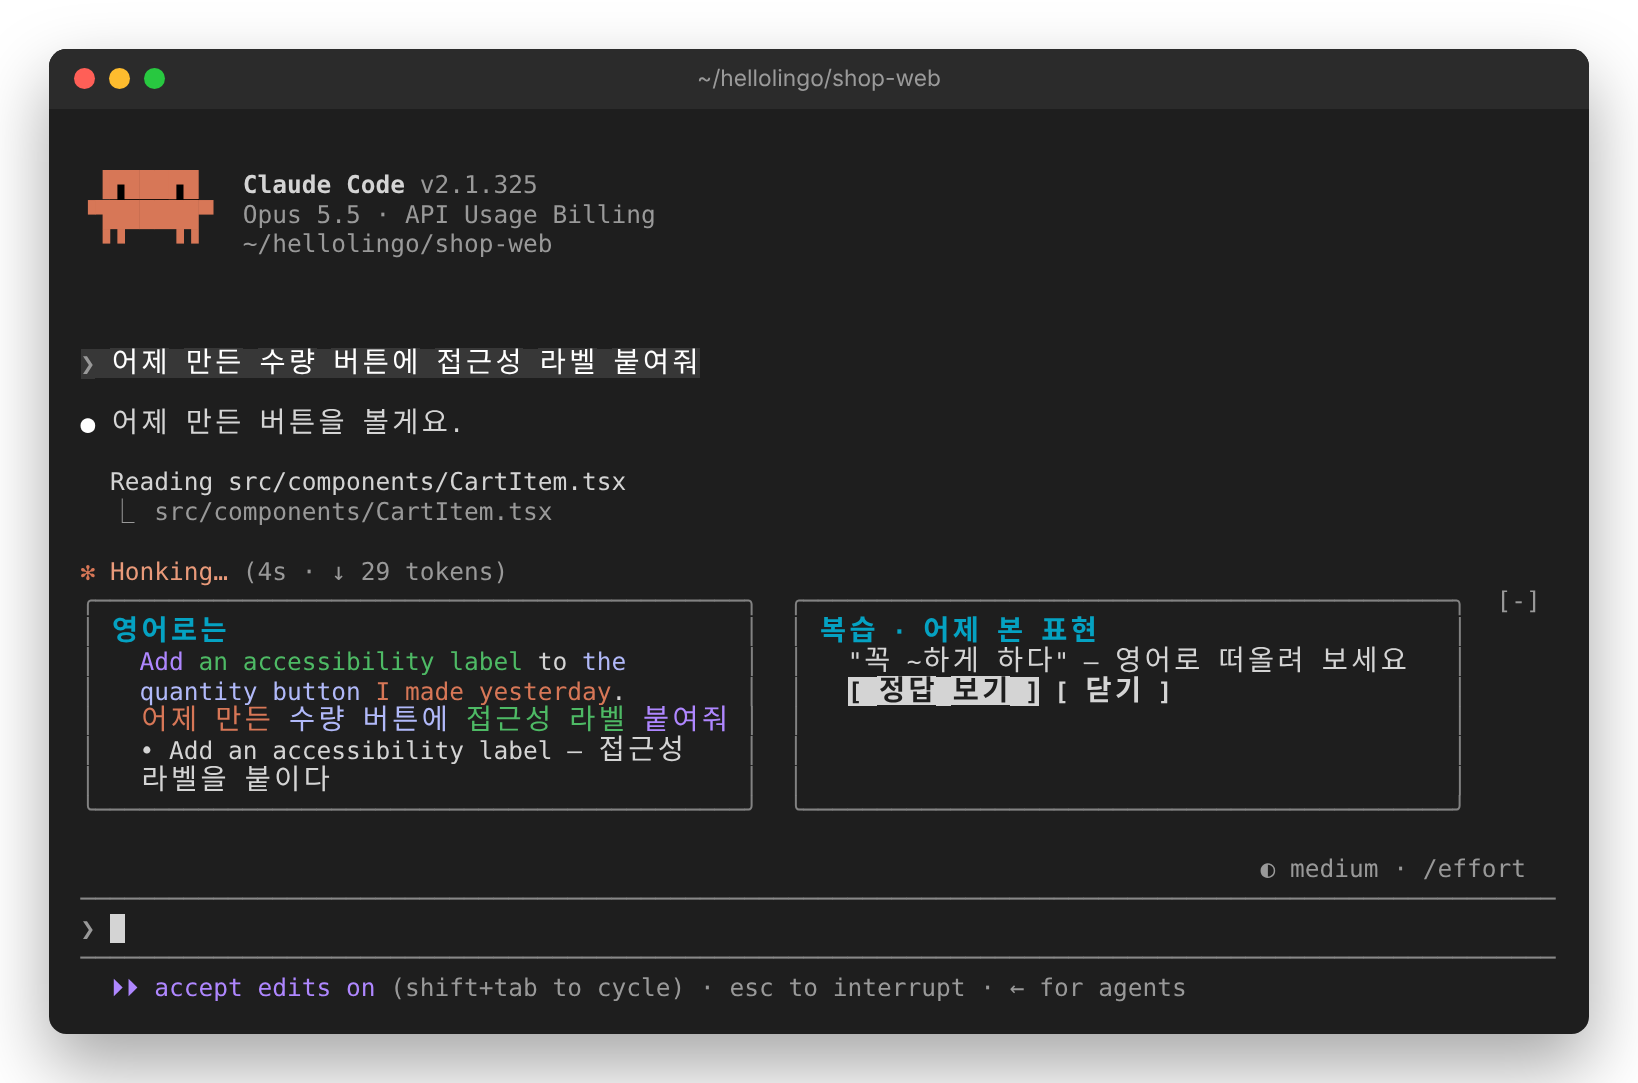
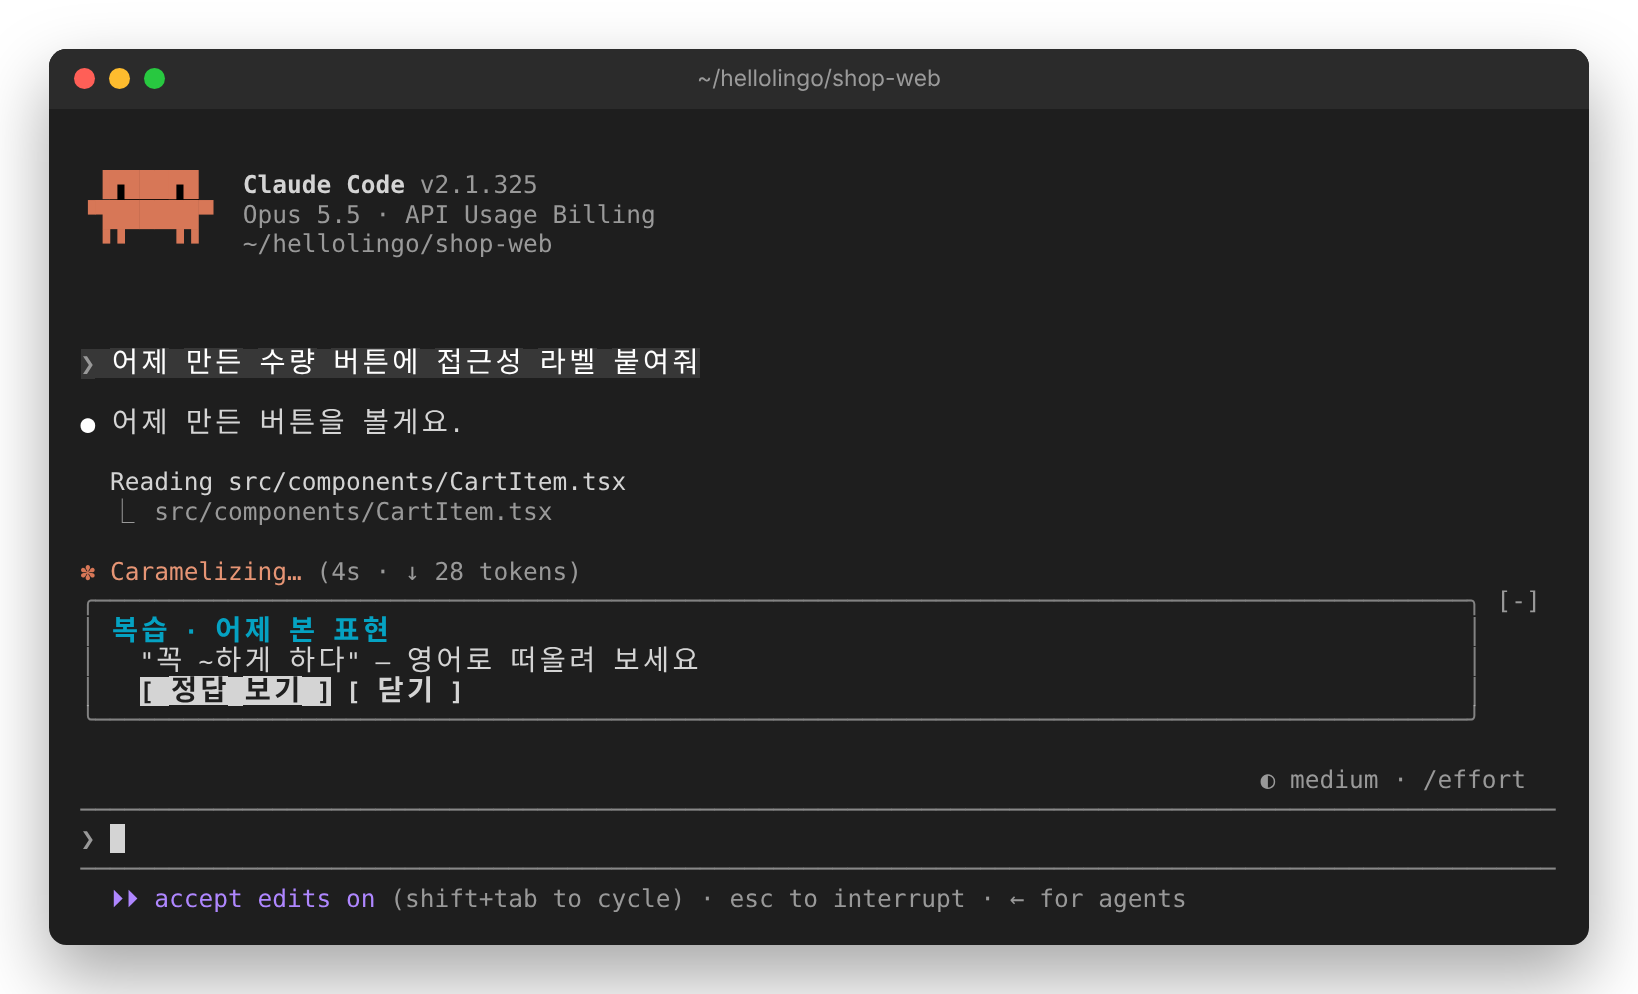
feat(study): 공부하는 동안 카드를 숨기고 공부 칸만 보이기
카드와 공부 칸이 나란히 있으면 한 화면에 읽을 것이 많았습니다. 카드의 영어 문장이
옆에 보여서, 혼자 맞추는 둘째 문제의 틀을 미리 알려 주기도 했습니다.

- 공부 칸이 열려 있으면 그 칸만 보입니다. 닫으면 가장 최근 카드가 돌아옵니다.
- 좌우로 나누거나 좁은 창에서 쌓는 배치는 없앱니다.
- 가이드와 동작 방식 문서를 고치고, 영향받는 세 장면을 다시 찍었습니다.

diff --git a/hooks/register.tsx b/hooks/register.tsx
@@ -3,7 +3,8 @@
 //  - 한국어 프롬프트: 영어 문장과 내 한국어 문장 (같은 뜻의 조각에 같은 색) + 핵심 표현 1개
 //  - 영어 프롬프트: 틀린 부분 → 고친 부분 (없으면 더 자연스러운 표현 1개)
 // 새 프롬프트를 보내도 카드는 지우지 않는다: 새 카드가 준비될 때까지 이전 카드를 그대로 둔다.
-// 카드의 핵심 표현은 표현 노트에 모은다. 공부는 학습자가 카드 위쪽의 버튼을 눌렀을 때만 오른쪽 공부 칸에서 한다:
+// 카드의 핵심 표현은 표현 노트에 모은다. 공부는 학습자가 카드 위쪽의 버튼을 눌렀을 때만 한다.
+// 그동안은 카드 자리에 공부 칸만 보이고, 닫으면 카드가 돌아온다:
 //  - 학습하기: 이 문장에서 한국어 사용자가 막히는 한 곳을 같은 틀의 새 문장 2개로 조각 맞추기
 //  - 복습: 복습할 때가 된 표현을 차례로 떠올리기
 //  - 학습 노트: 모은 표현을 영어를 가린 채 보고, 골라서 떠올리기
@@ -54,8 +55,6 @@ const MAX_TOKENS = 800 // 짝짓기까지 담은 JSON이 잘리지 않게
 const LESSON_MAX_TOKENS = 1500 // 배울 점과 문제 5개
 const LESSON_ATTEMPTS = 2 // 쓸 만한 문제가 없는 답이 오면 한 번 더 부른다
 const TIMEOUT_MS = 20_000
-const MIN_SPLIT_COLUMNS = 70 // 영역이 이보다 좁으면 반으로 나누지 않고 위아래로 쌓는다
-const GAP = 2
 const LIST_ROWS = 8 // 공부 칸의 노트 목록에 보이는 표현 수. 숫자 키 1~8로 고른다
 // 카드 테두리. 이모지는 터미널마다 폭을 다르게 세서 테두리를 어긋나게 하니, 카드 안에는 쓰지 않는다.
 const CARD_BORDER = 'round'
@@ -143,25 +142,31 @@ export const register: Register = on => {
     const open = await read($, study)
     const notes = await read($, notesView)
     const now = await $.clock.now()
-    // 공부 칸이 닫혀 있을 때만 카드 위쪽에 버튼을 둔다. 열려 있으면 공부 칸의 버튼만 보인다.
-    const tools =
-      open === null
-        ? headerButtons(card, notes, now, {
-            lesson: () => void openLesson($),
-            review: () => void openReview($),
-            list: () => void openList($),
-          })
-        : []
-    const promptPanel =
-      card !== null
-        ? { key: 'prompt', rows: [...(pendingSeq === null ? [] : [NEWER_PENDING_ROW]), ...cardRows(card, tools)] }
-        : pendingSeq !== null
-          ? { key: 'prompt', rows: pendingRows() }
-          : null
-    const studyPanel = open === null ? null : { key: 'study', rows: studyRows(open, notes, now, actions($, open.id)) }
-    const cards = [promptPanel, studyPanel].filter(notNull)
+    // 한 번에 한 칸만 보인다. 공부 칸이 열려 있으면 카드는 숨긴다: 볼 것이 하나라야 쉽고,
+    // 카드의 영어 문장이 옆에 보이면 혼자 맞추는 문제의 답을 미리 알려 준다. 닫으면 카드가 돌아온다.
+    const panel =
+      open !== null
+        ? { key: 'study', rows: studyRows(open, notes, now, actions($, open.id)) }
+        : card !== null
+          ? {
+              key: 'prompt',
+              rows: [
+                ...(pendingSeq === null ? [] : [NEWER_PENDING_ROW]),
+                ...cardRows(
+                  card,
+                  headerButtons(card, notes, now, {
+                    lesson: () => void openLesson($),
+                    review: () => void openReview($),
+                    list: () => void openList($),
+                  }),
+                ),
+              ],
+            }
+          : pendingSeq !== null
+            ? { key: 'prompt', rows: pendingRows() }
+            : null
 
-    if (cards.length === 0) {
+    if (panel === null) {
       return next(e)
     }
 
@@ -169,28 +174,12 @@ export const register: Register = on => {
     const { Box } = el
     // 같은 자리를 쓰는 다른 mod나 Claude Code 자체의 내용도 함께 보이게 아래에 붙인다.
     const below = await next(e)
-    // 카드 둘은 자리가 되면 좌우 반씩, 좁으면 위아래로.
-    const isSplit = cards.length === 2 && e.props.bodyColumns >= MIN_SPLIT_COLUMNS
-    const cardWidth = isSplit ? Math.floor((e.props.bodyColumns - GAP) / 2) : undefined
 
-    // 칸마다 둥근 테두리를 둘러서, 터미널의 다른 내용과 그리고 서로 구분되게 한다.
-    // 너비는 테두리와 안쪽 여백까지 포함한 값이다.
+    // 둥근 테두리를 둘러서 터미널의 다른 내용과 구분되게 한다.
     return (
       <Box flexDirection="column">
-        <Box flexDirection={isSplit ? 'row' : 'column'} columnGap={GAP} marginBottom={1}>
-          {cards.map(panel => (
-            <Box
-              key={panel.key}
-              flexDirection="column"
-              width={cardWidth}
-              flexShrink={0}
-              borderStyle={CARD_BORDER}
-              borderDimColor
-              paddingX={1}
-            >
-              {drawRows(el, panel.rows)}
-            </Box>
-          ))}
+        <Box key={panel.key} flexDirection="column" borderStyle={CARD_BORDER} borderDimColor paddingX={1} marginBottom={1}>
+          {drawRows(el, panel.rows)}
         </Box>
         {below}
       </Box>
@@ -848,7 +837,7 @@ function pairColor(pair: number): string {
   return PAIR_COLORS[pair % PAIR_COLORS.length] ?? ACCENT
 }
 
-/** 오른쪽 공부 칸. 학습하기, 복습, 노트 목록 */
+/** 공부 칸. 학습하기, 복습, 노트 목록. 열려 있는 동안 카드 자리를 대신한다 */
 function studyRows(s: Study, notes: Notes, now: number, on: StudyActions): Row[] {
   const close: RowButton = { key: 'study-close', label: '닫기', hotkey: 'q', onPress: on.close }
 

diff --git a/tests/hellolingo.test.tsx b/tests/hellolingo.test.tsx
@@ -657,7 +657,7 @@ describe('expression notebook and study panel', () => {
     await ui.unmount()
   })
 
-  test('the study panel sits beside the card, stacks when narrow, and stays across prompts and finished turns', async ($, on) => {
+  test('the study panel takes the place of the card until closed, and stays across prompts and finished turns', async ($, on) => {
     const clock = mock.clock(on)
     // 다른 세션에서 모아 둔 표현도 복습에 나온다. 모양이 틀린 줄은 버린다.
     engine(on, () => KO_REPLY, { notes: { 'make sure': note('make sure', '꼭 ~하다'), broken: { en: 1 } } })
@@ -665,37 +665,37 @@ describe('expression notebook and study panel', () => {
     await $.session.start({ cwd: '/', surface: 'terminal', isInteractive: true })
     await $.prompt.submit(typed(KO_PROMPT))
     await clock.settle()
-    const working = await $.ui.mount(WIDE)
+    const ui = await $.ui.mount(WIDE)
 
-    await working.press({ key: 'study-review' })
+    await ui.press({ key: 'study-review' })
     await clock.settle()
-    // (100 - 카드 사이 2칸) / 2
-    expect((await working.find({ type: 'Box', key: 'prompt' }))?.props.width).toBe(49)
-    expect((await working.find({ type: 'Box', key: 'study' }))?.props).toMatchObject({
-      width: 49,
+    // 한 번에 한 칸만: 공부하는 동안 카드와 그 영어 문장은 보이지 않는다.
+    expect(await ui.find({ type: 'Box', key: 'prompt' })).toBeUndefined()
+    expect(await ui.find({ type: 'Text', text: KO_ENGLISH_LINE })).toBeUndefined()
+    expect((await ui.find({ type: 'Box', key: 'study' }))?.props).toMatchObject({
       borderStyle: 'round',
       borderDimColor: true,
       paddingX: 1,
     })
-    expect(await working.find({ type: 'Text', text: /"꼭 ~하다"/ })).toBeDefined()
-    // 공부 칸이 열려 있으면 카드 위쪽 버튼은 숨는다.
-    expect(await working.find({ type: 'Button', key: 'study-lesson' })).toBeUndefined()
-    await working.unmount()
+    expect((await ui.find({ type: 'Box', key: 'study' }))?.props.width).toBeUndefined()
+    expect(await ui.find({ type: 'Text', text: /"꼭 ~하다"/ })).toBeDefined()
+    expect(await ui.find({ type: 'Text', text: /^engine$/ })).toBeDefined()
 
-    const narrow = await $.ui.mount({ ...WIDE, props: { ...WIDE.props, bodyColumns: 60 } })
-
-    expect((await narrow.find({ type: 'Box', key: 'prompt' }))?.props.width).toBeUndefined()
-    expect((await narrow.find({ type: 'Box', key: 'study' }))?.props.width).toBeUndefined()
-    await narrow.unmount()
-
+    // 새 프롬프트를 보내도, 턴이 끝나도 공부 칸은 그대로다.
     await $.turn.complete(answered(ANSWER))
-    await $.prompt.submit(typed('응 해줘'))
+    await $.prompt.submit(typed('회원가입 버튼 색 바꿔줘'))
     await $.prompt.submit({ ...typed('/lingo-notes'), command: { name: 'lingo-notes', args: '' } })
     await clock.settle()
-    const later = await $.ui.mount(WIDE)
+    expect(await ui.find({ type: 'Box', key: 'study' })).toBeDefined()
+    expect(await ui.find({ type: 'Box', key: 'prompt' })).toBeUndefined()
 
-    expect(await later.find({ type: 'Box', key: 'study' })).toBeDefined()
-    await later.unmount()
+    // 닫으면 카드가 단추와 함께 돌아온다.
+    await ui.press({ key: 'study-close' })
+    await clock.settle()
+    expect(await ui.find({ type: 'Box', key: 'study' })).toBeUndefined()
+    expect(await ui.find({ type: 'Text', text: KO_ENGLISH_LINE })).toBeDefined()
+    expect(await ui.find({ type: 'Button', key: 'study-lesson' })).toBeDefined()
+    await ui.unmount()
   })
 
   test('학습하기 practices one pattern in two new sentences: the first helped by colors, the second alone', async ($, on) => {

diff --git a/docs/guide/03-study.md b/docs/guide/03-study.md
@@ -1,6 +1,6 @@
 # 3. 학습하기. 방금 쓴 문장으로 연습
 
-유진은 방금 수량 버튼을 시켰습니다. Claude가 일을 마칠 때까지 잠깐 시간이 있습니다. 카드 위쪽 오른쪽의 `학습하기`를 눌러 봅니다.
+유진은 방금 수량 버튼을 시켰습니다. Claude가 일을 마칠 때까지 잠깐 시간이 있습니다. 카드 위쪽 오른쪽의 `학습하기`를 눌러 봅니다. 카드가 있던 자리에 문제가 나옵니다. 공부하는 동안에는 카드를 숨깁니다. `닫기`를 누르면 카드가 돌아옵니다.
 
 ## 무엇을 연습하나
 
@@ -14,7 +14,7 @@
 
 같은 틀의 새 문장이 나옵니다. 영어 조각을 영어 순서대로 누릅니다.
 
-![오른쪽 칸 맨 위에 "학습하기 · 1/2"와 "~하는 버튼 → a button to ~"가 있습니다. 그 아래 "주문 취소하는 버튼 추가해줘"의 조각이 색으로 칠해져 있고, 버튼 세 개 "the order", "add a button", "to cancel"이 섞여 있고, 끝에 "닫기"가 있습니다.](images/study-1-first.png)
+![입력창 위 칸 맨 위에 "학습하기 · 1/2"와 "~하는 버튼 → a button to ~"가 있습니다. 그 아래 "주문 취소하는 버튼 추가해줘"의 조각이 색으로 칠해져 있고, 버튼 세 개 "the order", "add a button", "to cancel"이 섞여 있고, 끝에 "닫기"가 있습니다.](images/study-1-first.png)
 
 - 맨 위 줄이 배울 점입니다. 그 아래 흐린 줄이 한 줄 도움말입니다.
 - 한국어 조각마다 색이 있습니다. 같은 색의 영어 조각이 그 뜻입니다.
@@ -23,7 +23,7 @@
 
 다 맞추면 문장이 완성되고 "맞았어요!"가 나옵니다.
 
-![오른쪽 칸에 "Add a button to cancel the order."가 완성되어 있고, 그 아래 "✓ 맞았어요!"와 "다음 문제", "닫기" 단추가 있습니다.](images/study-2-right.png)
+![칸에 "Add a button to cancel the order."가 완성되어 있고, 그 아래 "✓ 맞았어요!"와 "다음 문제", "닫기" 단추가 있습니다.](images/study-2-right.png)
 
 ## 둘째 문제: 혼자 맞춥니다
 
@@ -31,7 +31,7 @@
 
 순서가 틀리면 그 자리에서 정답을 보여 줍니다. 한국어와 영어의 같은 색 조각이 짝입니다.
 
-![오른쪽 칸에 "Make a button to upload the file."이 색 조각으로 나와 있고, "✗ 영어는 위 순서예요", "2문제 가운데 1개를 맞혔어요.", "노트에 담았어요. 내일 새 문장으로 다시 물어볼게요."가 있습니다.](images/study-3-done.png)
+![칸에 "Make a button to upload the file."이 색 조각으로 나와 있고, "✗ 영어는 위 순서예요", "2문제 가운데 1개를 맞혔어요.", "노트에 담았어요. 내일 새 문장으로 다시 물어볼게요."가 있습니다.](images/study-3-done.png)
 
 틀려도 괜찮습니다. 답을 본 뒤에 더 잘 기억합니다.
 

diff --git a/docs/how-it-works.md b/docs/how-it-works.md
@@ -11,9 +11,8 @@
 - 이전 프롬프트의 카드가 새 프롬프트의 카드보다 늦게 오면 버립니다. 버린 카드의 표현은 노트에 모으지 않습니다. 화면에 나온 적이 없기 때문입니다.
 - 새 세션은 빈 영역으로 시작합니다.
 - 카드 위쪽 오른쪽에 단추를 둡니다. `학습하기`(한국어 카드에만), `복습 N`(복습할 표현이 있을 때만), `학습 노트`(노트가 있을 때만). 자리가 모자라면 단추가 다음 줄로 내려갑니다.
-- 공부 칸은 학습자가 단추를 눌렀을 때만 열립니다. 열려 있는 동안에는 카드 위쪽 단추를 숨깁니다. 공부 칸의 단추와 키가 겹치지 않게 하려는 것입니다.
-- 카드와 공부 칸이 함께 있으면 좌우 반씩 나눕니다. 영역이 70칸보다 좁으면 위아래로 쌓습니다.
-- 공부 칸은 새 프롬프트를 보내도, 턴이 끝나도 그대로 둡니다. `닫기`를 눌러야 닫힙니다.
+- 공부 칸은 학습자가 단추를 눌렀을 때만 열립니다. 열려 있는 동안에는 카드를 숨기고 공부 칸만 보여 줍니다. 한 번에 볼 것이 하나라야 쉽고, 카드의 영어 문장이 옆에 보이면 혼자 맞추는 문제의 답을 미리 알려 주기 때문입니다.
+- 공부 칸은 새 프롬프트를 보내도, 턴이 끝나도 그대로 둡니다. `닫기`를 눌러야 닫히고, 그러면 가장 최근 카드가 돌아옵니다. 공부하는 동안 보낸 프롬프트의 카드도 그대로 만들고 표현도 모읍니다.
 - 들여쓰기는 줄 앞의 공백이 아니라 안쪽 여백(`paddingLeft`)으로 합니다. 좁은 칸에서 줄이 넘쳐도 다음 줄이 같은 자리에서 이어집니다.
 - 카드마다 둥근 테두리를 두릅니다. 테두리 안에는 이모지를 쓰지 않습니다. 터미널마다 이모지 폭을 다르게 세서 오른쪽 테두리가 어긋나기 때문입니다.
 - 설문이 떠 있으면 영역을 설문에 양보합니다.

diff --git a/docs/guide/09-troubleshooting.md b/docs/guide/09-troubleshooting.md
@@ -1,10 +1,8 @@
 # 9. 끄기, 업데이트, 문제 해결
 
-## 창이 좁을 때
+## 창이 작을 때
 
-창 너비가 70칸보다 좁으면 카드와 공부 칸이 위아래로 쌓입니다.
-
-![좁은 창에서 카드 아래에 복습 칸이 쌓여 있습니다. 복습 칸에는 "Add a button to save the settings."와 "좋아요! 3일 뒤에 다시 볼게요"가 있습니다.](images/narrow-window.png)
+창이 좁으면 긴 줄은 다음 줄로 넘어가고, 단추도 다음 줄로 내려갑니다.
 
 창 높이가 낮으면 아래쪽이 잘리고 `↓ 3 more`처럼 나옵니다. 그때는 창을 키웁니다.
 
@@ -57,7 +55,11 @@ claude plugin uninstall hellolingo@hellolingo
 
 **버튼이 안 보여요.**
 
-- 버튼은 카드 위쪽 오른쪽에 있습니다. 공부 칸이 열려 있는 동안에는 숨습니다. 공부 칸의 `닫기`를 누르면 다시 보입니다.
+- 버튼은 카드 위쪽 오른쪽에 있습니다. 공부하는 동안에는 카드와 함께 숨습니다. 공부 칸의 `닫기`를 누르면 다시 보입니다.
+
+**공부하는 동안 카드가 안 보여요.**
+
+- 일부러 숨겼습니다. 한 번에 하나만 보이게 하려는 것입니다. `닫기`를 누르면 가장 최근 카드가 돌아옵니다.
 
 **키를 눌러도 반응이 없거나, 입력창에 글자가 들어가요.**
 

diff --git a/docs/guide/07-notes.md b/docs/guide/07-notes.md
@@ -16,9 +16,9 @@
 
 ## 학습 노트에서 골라 떠올리기
 
-`학습 노트`를 누르면 오른쪽에 노트 목록이 열립니다.
+`학습 노트`를 누르면 카드 자리에 노트 목록이 열립니다.
 
-![오른쪽 칸 맨 위에 "학습 노트 · 8개"와 "지금 복습할 것 4개 · 하나를 골라 떠올려 보세요"가 있습니다. 그 아래 "~와 비교하다", "~로 내보내다" 같은 한국어 뜻 단추마다 "지금 복습", "내일 복습"처럼 다시 볼 날이 적혀 있습니다.](images/notes-1-list.png)
+![칸 맨 위에 "학습 노트 · 8개"와 "지금 복습할 것 4개 · 하나를 골라 떠올려 보세요"가 있습니다. 그 아래 "~와 비교하다", "~로 내보내다" 같은 한국어 뜻 단추마다 "지금 복습", "내일 복습"처럼 다시 볼 날이 적혀 있습니다.](images/notes-1-list.png)
 
 - 영어는 가려 두었습니다. 무엇을 누르든 떠올리기가 됩니다.
 - 복습할 때가 된 표현이 맨 위에 있습니다. 그다음은 아직 덜 익힌 표현입니다. 위에서부터 고르면 지금 필요한 표현을 고르게 됩니다.

diff --git a/docs/guide/05-recall.md b/docs/guide/05-recall.md
@@ -14,9 +14,9 @@
 
 ## 핵심 표현 떠올리기
 
-`복습 6`을 누르면 오른쪽에 복습 칸이 열립니다. 어제 모은 표현 하나의 한국어 뜻이 나옵니다.
+`복습 6`을 누르면 카드 자리에 복습 칸이 열립니다. 어제 모은 표현 하나의 한국어 뜻이 나옵니다.
 
-![왼쪽에 새 카드가, 오른쪽에 "복습 · 어제 본 표현" 칸이 있습니다. 칸에는 "꼭 ~하게 하다"와 "정답 보기", "닫기" 단추가 보입니다.](images/recall-1-quiz.png)
+![입력창 위에 "복습 · 어제 본 표현" 칸이 있습니다. 칸에는 "꼭 ~하게 하다"와 "정답 보기", "닫기" 단추가 보입니다.](images/recall-1-quiz.png)
 
 1. 따옴표 안의 한국어 뜻을 봅니다.
 2. 영어를 **머릿속으로** 떠올립니다. 쓰지 않아도 됩니다.
